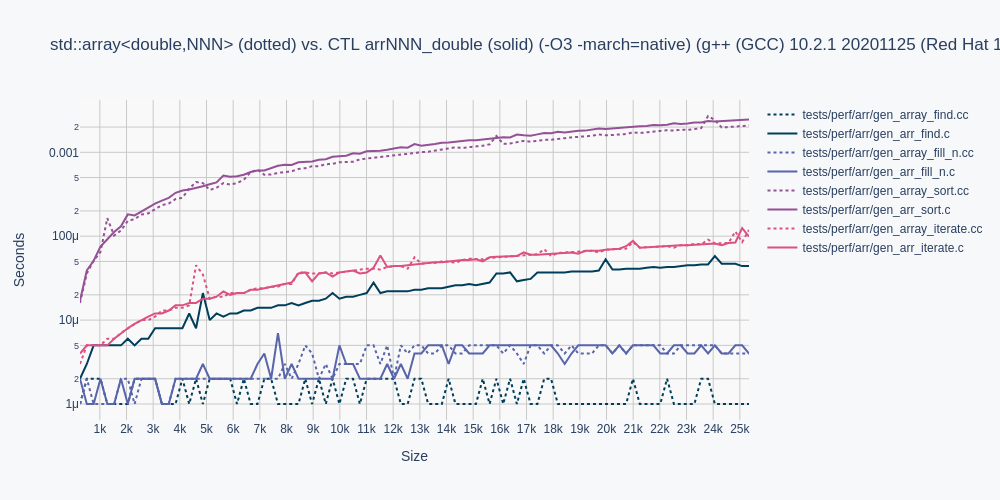
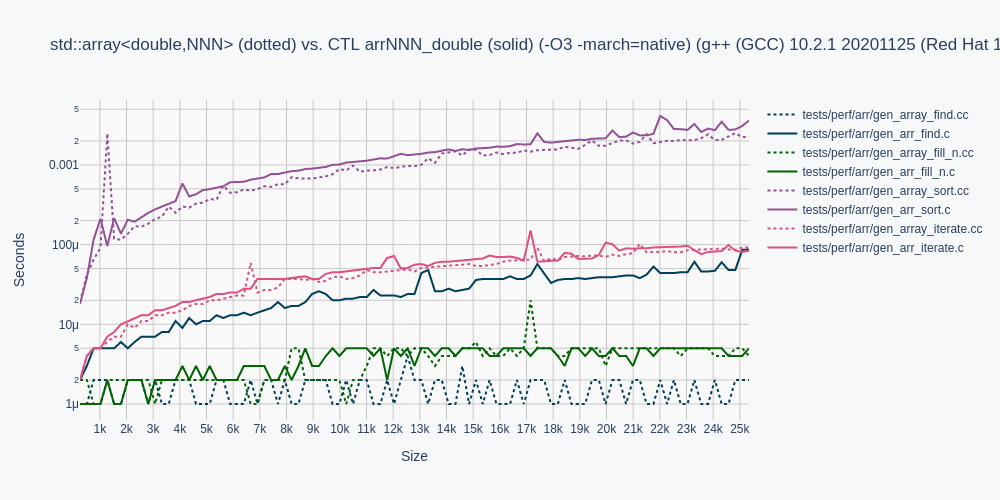
priority_queue: add emplace and test/perf for top
our top is much faster than the STL C++ top

regen images with better colors. green instead of the 2nd blue

Changed region(s): [[0.031, 0.21, 0.744, 0.81], [0.775, 0.33, 0.806, 0.36]]

diff --git a/tests/func/test_priority_queue.cc b/tests/func/test_priority_queue.cc
@@ -33,20 +33,27 @@ main(void)
             b.push(DIGI{value});
         }
 #define FOREACH_METH(TEST) \
-        TEST(PUSH) \
-        TEST(POP) \
+        TEST(TOP)          \
+        TEST(PUSH)         \
+        TEST(POP)          \
+        TEST(EMPLACE)      \
         TEST(SWAP)
+#define FOREACH_DEBUG(TEST)\
 
 #define GENERATE_ENUM(x) TEST_##x,
 #define GENERATE_NAME(x) #x,
 
         enum {
             FOREACH_METH(GENERATE_ENUM)
+#ifdef DEBUG
+            FOREACH_DEBUG(GENERATE_ENUM)
+#endif
             TEST_TOTAL
         };
 #ifdef DEBUG
         static const char *test_names[] = {
             FOREACH_METH(GENERATE_NAME)
+            FOREACH_DEBUG(GENERATE_NAME)
             ""
         };
 #endif
@@ -56,6 +63,16 @@ main(void)
         LOG ("TEST %s %d (size %zu)\n", test_names[which], which, a.size);
         switch(which)
         {
+            case TEST_TOP:
+            {
+                if(a.size > 0)
+                {
+                    DIGI bb = b.top();
+                    digi *aa = pqu_digi_top(&a);
+                    assert(*bb.value == *aa->value);
+                }
+                break;
+            }
             case TEST_PUSH:
             {
                 const int value = TEST_RAND(INT_MAX);
@@ -82,6 +99,18 @@ main(void)
                 std::swap(bb, bbb);
                 CHECK(aaa, bbb);
                 pqu_digi_free(&aaa);
+                break;
+            }
+            case TEST_EMPLACE:
+            {
+                const int value = TEST_RAND(INT_MAX);
+                digi bb = digi_init(value);
+#if __cpp_lib_erase_if > 202002L
+                b.emplace(DIGI{value});
+#else
+                b.push(DIGI{value});
+#endif
+                pqu_digi_emplace(&a, &bb);
                 break;
             }
         }

diff --git a/ctl/priority_queue.h b/ctl/priority_queue.h
@@ -3,7 +3,7 @@
    SPDX-License-Identifier: MIT */
 
 #ifndef T
-#error "Template type T undefined for <ctl/priority_queue.h>"
+# error "Template type T undefined for <ctl/priority_queue.h>"
 #endif
 
 #define front         top
@@ -22,6 +22,7 @@
 #define assign        __ASSIGN
 #define shrink_to_fit __SHRINK_TO_FIT
 #define data          __DATA
+#define emplace       __EMPLACE
 #define insert        __INSERT
 #define erase         __ERASE
 #define sort          __SORT
@@ -37,6 +38,7 @@
 #include <ctl/vector.h>
 #undef init
 #undef vec
+#undef emplace
 
 #define A JOIN(pqu, T)
 
@@ -120,10 +122,12 @@ JOIN(A, pop)(A* self)
     JOIN(A, down)(self, 0);
 }
 
-#if 0
 static inline void
-JOIN(A, emplace)(A* self, ...) {}
-#endif
+JOIN(A, emplace)(A* self, T* value)
+{
+    JOIN(A, __EMPLACE)(self, value);
+    JOIN(A, up)(self, self->size - 1);
+}
 
 #undef front
 #undef at

diff --git a/tests/perf/pqu/perf_pqu_top.c b/tests/perf/pqu/perf_pqu_top.c
@@ -1,0 +1,29 @@
+#include "../../test.h"
+
+#define POD
+#define T int
+#include <ctl/priority_queue.h>
+
+#include <time.h>
+
+static int compare(int* a, int* b) { return *a < *b; }
+
+int main(void)
+{
+    puts(__FILE__);
+    srand(0xbeef);
+    for(int run = 0; run < TEST_PERF_RUNS; run++)
+    {
+        pqu_int c = pqu_int_init(compare);
+        int elems = TEST_PERF_CHUNKS * run;
+        for(int elem = 0; elem < elems; elem++)
+            pqu_int_push(&c, rand());
+        volatile int sum = 0;
+        long t0 = TEST_TIME();
+        for(int elem = 0; elem < elems; elem++)
+            sum = *pqu_int_top(&c);
+        long t1 = TEST_TIME();
+        printf("%10d %10ld\n", elems, t1 - t0);
+        pqu_int_free(&c);
+    }
+}

diff --git a/tests/perf/pqu/perf_priority_queue_top.cc b/tests/perf/pqu/perf_priority_queue_top.cc
@@ -1,0 +1,26 @@
+#include "../../test.h"
+
+#include <queue>
+
+#include <time.h>
+
+struct compare { bool operator()(const int& a, const int& b) { return a < b; } };
+
+int main()
+{
+    puts(__FILE__);
+    srand(0xbeef);
+    for(int run = 0; run < TEST_PERF_RUNS; run++)
+    {
+        std::priority_queue<int, std::vector<int>, compare> c;
+        int elems = TEST_PERF_CHUNKS * run;
+        for(int elem = 0; elem < elems; elem++)
+            c.push(rand());
+        volatile int sum = 0;
+        long t0 = TEST_TIME();
+        for(int elem = 0; elem < elems; elem++)
+            sum += c.top();
+        long t1 = TEST_TIME();
+        printf("%10d %10ld\n", elems, t1 - t0);
+    }
+}

diff --git a/ctl/vector.h b/ctl/vector.h
@@ -284,6 +284,16 @@ JOIN(A, push_back)(A* self, T value)
 }
 
 static inline void
+JOIN(A, emplace)(A* self, T* value)
+{
+    if(self->size == self->capacity)
+        JOIN(A, reserve)(self,
+            self->capacity == 0 ? INIT_SIZE : 2 * self->capacity);
+    self->size++;
+    *JOIN(A, at)(self, self->size - 1) = *value;
+}
+
+static inline void
 JOIN(A, resize)(A* self, size_t size, T value)
 {
     if(size < self->size)

diff --git a/tests/perf/perf_plot.py b/tests/perf/perf_plot.py
@@ -36,7 +36,7 @@ def plot_from_data(name_plot_hash, title):
    # lst has 6 items
    color_list = [
        "#003f5c", # dark blue
-       "#5965AB", # medium light blue
+       "#006400", # green
        "#955196", # violet
        "#dd5182", # reddish
        "#ff6e54", # orange

diff --git a/docs/priority_queue.md b/docs/priority_queue.md
@@ -95,7 +95,7 @@ inserts the element
 
     emplace (A* self, T* value)
 
-constructs elements in-place. (C++11) _(NYI)_
+constructs elements in-place. (C++11)
 
     pop (A* self)
 
